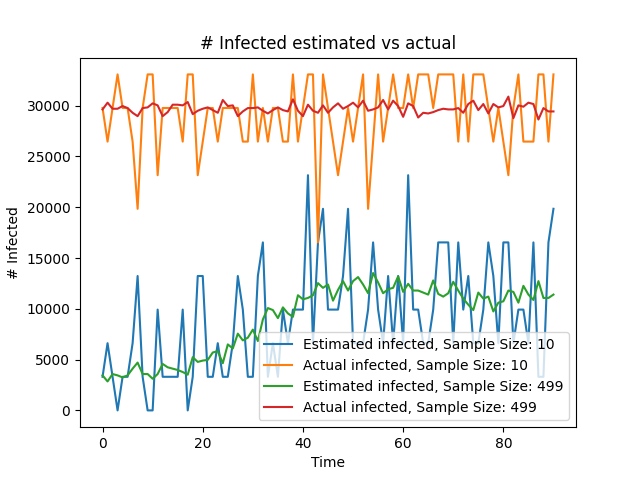
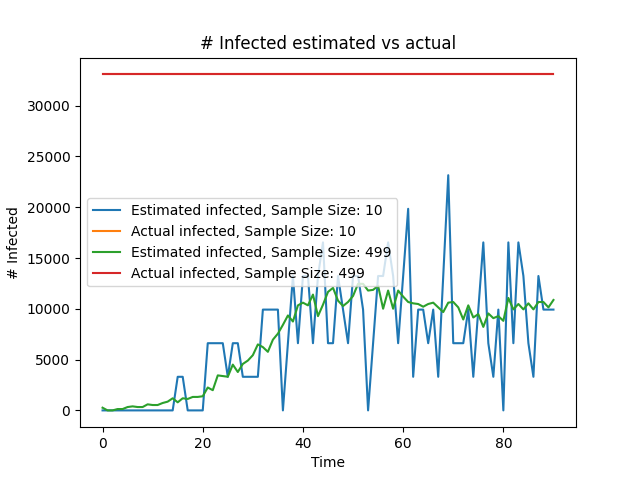
Testing plot shows that there is probably an error

Changed region(s): [[0.125, 0.125, 0.9062, 0.875]]

diff --git a/gibraltar_ex/accuracy_measure.py b/gibraltar_ex/accuracy_measure.py
@@ -288,8 +288,8 @@ prevalence_error = get_prevalence_percentage_error(sample_times=sample_times,
                                                    num_iterations=1, 
                                                    filter_outliers=False, 
                                                    plot_prevalence=True,
-                                                   false_positive=0.1,
-                                                   false_negative=0.1)
+                                                   false_positive=0,
+                                                   false_negative=0)
 
 # get_rmse(sample_range, num_samples, num_iterations)
 #plot_mean_variance(sample_range, num_samples, num_iterations)
